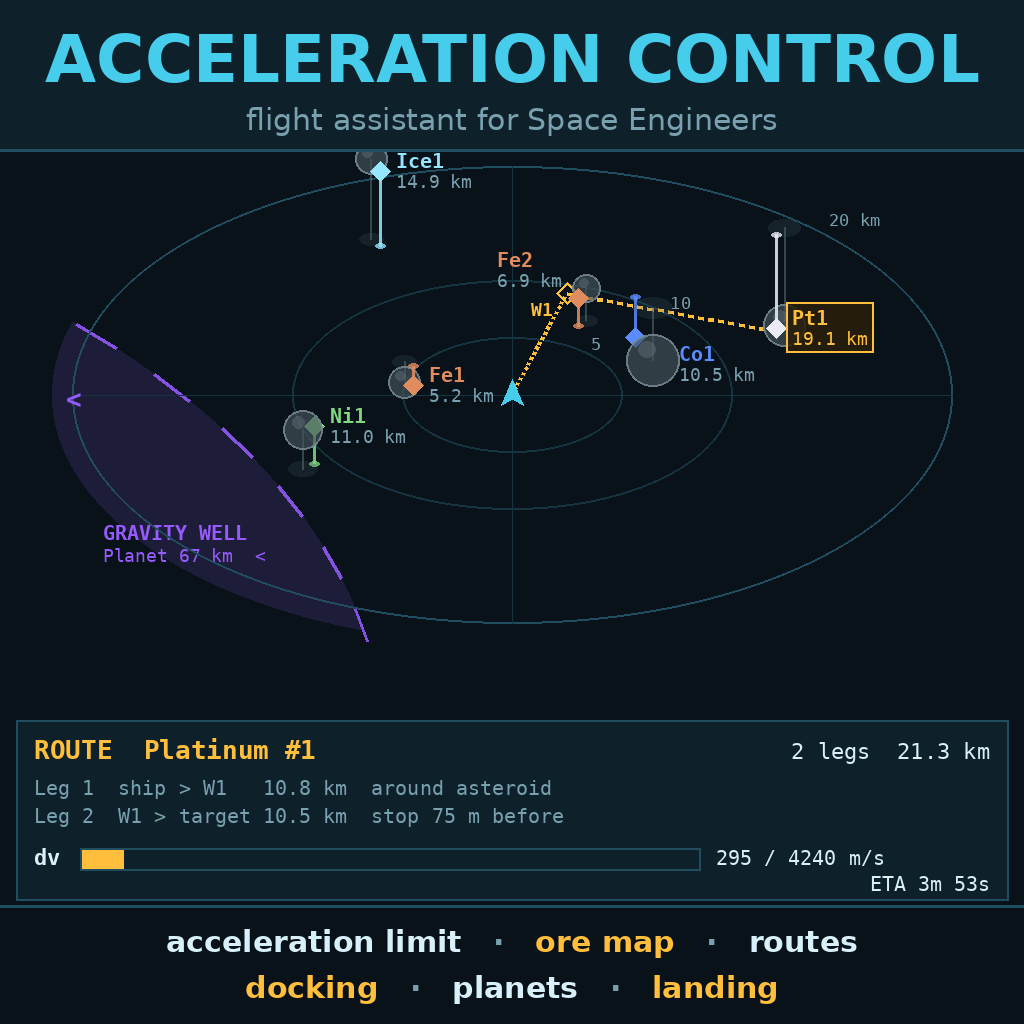
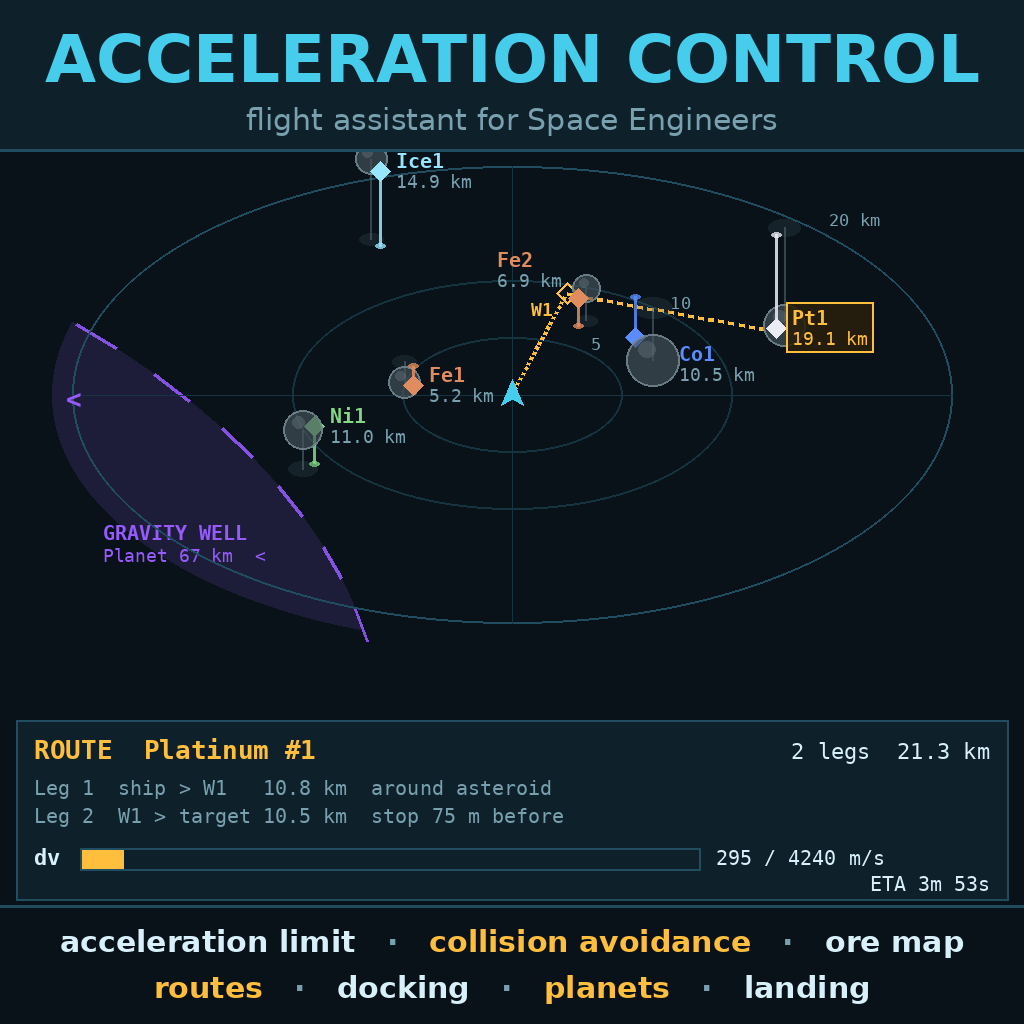
Workshop cover: add collision avoidance
Claude-Session: https://claude.ai/code/session_015uX8FGzPoM4tSbL5yWywWf

Changed region(s): [[0.0625, 0.9062, 0.9375, 1.0]]

diff --git a/workshop/cover.py b/workshop/cover.py
@@ -25,7 +25,7 @@ def cover():
     d.rectangle([0, S - 118, S, S], fill=BG + (255,))
     d.line([0, S - 118, S, S - 118], fill=GRID + (255,), width=3)
     f = ImageFont.truetype(SANS_B, 30)
-    for row, words in enumerate([["acceleration limit", "ore map", "routes"], ["docking", "planets", "landing"]]):
+    for row, words in enumerate([["acceleration limit", "collision avoidance", "ore map"], ["routes", "docking", "planets", "landing"]]):
         text = "   \u00b7   ".join(words)
         y = S - 100 + row * 46
         x = (S - d.textlength(text, font=f)) / 2
